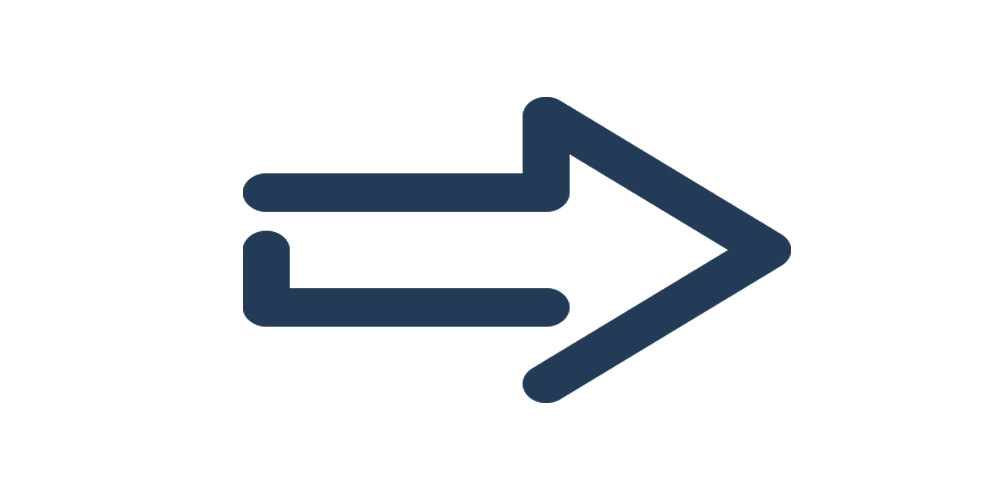
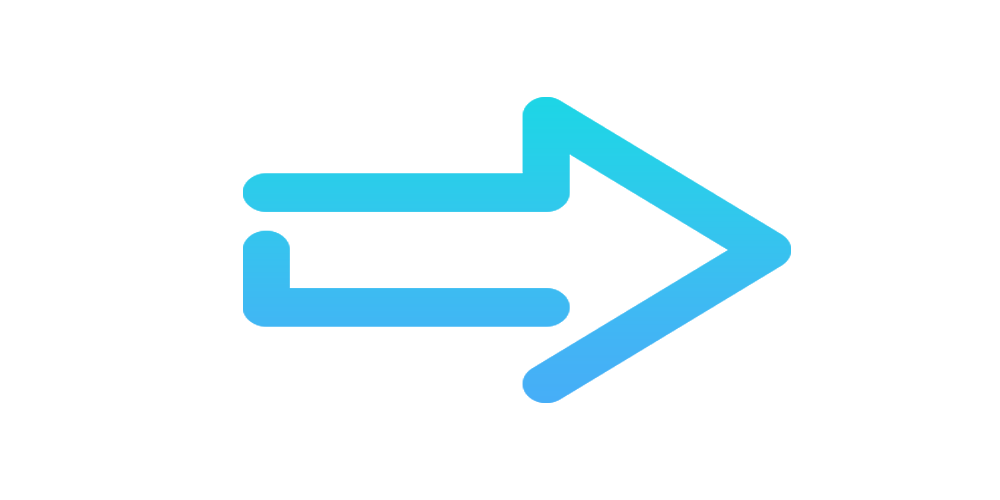
final changes

Changed region(s): [[0.217, 0.18, 0.806, 0.81]]

diff --git a/components/layout/Home.tsx b/components/layout/Home.tsx
@@ -12,7 +12,7 @@ export default function Home() {
        <Background/>
       <div className="absolute inset-0 bg-gradient-to-br from-white/5 to-transparent opacity-50"></div>
       
-      <div className="relative z-10 max-w-7xl mx-auto px-4">
+      <div className=" z-10  justify-center items-center mx-auto lg:my-14">
         <div className="flex flex-col lg:flex-row items-center justify-between mb-12 md:mb-16 lg:mb-20 gap-y-6 lg:gap-x-12">
           <div className="lg:w-1/3 flex justify-center lg:justify-end items-center mb-6 lg:mb-0">
             <div className="max-w-[150px] sm:max-w-[180px] lg:max-w-[200px]">
@@ -24,24 +24,26 @@ export default function Home() {
               />
             </div>
           </div>
-          <div className="lg:w-2/3 flex justify-center lg:justify-start items-center">
+          <div className=" flex justify-center lg:justify-start items-center">
             <div className="text-center lg:text-left">
-              <h1 className="loading-text def:text-5xl sm:text-3xl md:text-4xl lg:text-6xl xl:text-7xl font-extrabold bg-gradient-to-r from-cyan-200 via-purple-400 to-pink-400 bg-clip-text text-transparent  animate-pulse leading-tight">
-                Welcome to the Mind of Your AI 🧠
+              <h1 className=" px-4 def:text-5xl sm:text-3xl md:text-4xl lg:text-6xl xl:text-7xl font-extrabold bg-gradient-to-r
+               from-cyan-200 via-blue-400 to-sky-400 bg-clip-text text-transparent   leading-tight">
+                Welcome to the Mind of Your AI <span className='text-pink-400'>🧠</span>
               </h1>
             </div>
           </div>
         </div>
         
-            <div className='home_buttons '>
-                <div className="animated-border-box-glow"></div>
+            <div className='home_buttons group'>
+                <div className="animated-border-box-glow group"></div>
                 
-                <div className="animated-border-box">
-                    <Link href="/mainpage" className="home_link">
+                <div className="animated-border-box border-2 border-sky-900 group">
+                    <Link href="/mainpage" className="home_link group">
                     <img 
                         src={arrow1.src} 
                         alt="Arrow Logo"  
-                        className="arrow_image w-[148px] inline -ml-2 mb-[2px] max-[500px]:w-[100px] max-[500px]:-ml-1 max-[500px]:mb-[1px]"
+                        className="arrow_image w-[148px] inline -ml-2 mb-[2px] max-[500px]:w-[100px] max-[500px]:-ml-1 max-[500px]:mb-[1px]
+                        group-hover:cursor-pointer group-hover:animate-pulse"
                     />
                     </Link>
                 </div>

diff --git a/components/layout/MainShell.tsx b/components/layout/MainShell.tsx
@@ -61,7 +61,7 @@ export function MainShell() {
               ml-[51px]
                " >
                 <Image src="/logo.png" alt="Logo" width={32} height={32}  />
-                <h1 className="text-lg font-semibold text-gray-900 dark:text-white">Predusk AI</h1>
+                <h1 className="text-lg font-semibold text-gray-900 dark:text-white">AIverse Hub</h1>
               </Link>
             </div>
             <div className="flex items-center gap-4">

diff --git a/app/layout.tsx b/app/layout.tsx
@@ -3,7 +3,7 @@ import type { Metadata } from 'next';
 import { ThemeProvider } from '@/components/providers/ThemeProvider';
 
 export const metadata: Metadata = {
-  title: 'Predusk AI',
+  title: 'AIverse Hub',
   description: 'A polished AI interface prototype by Predusk AI',
   icons: {
     icon: '/favicon.ico',

diff --git a/src/style/home.css b/src/style/home.css
@@ -88,7 +88,7 @@
 	width: calc(100% - 10px);
 	height: calc(100% - 10px);
 
-	background: #83c4f6;
+	background: #041733;
  
 	border-radius: 7px;
 }
